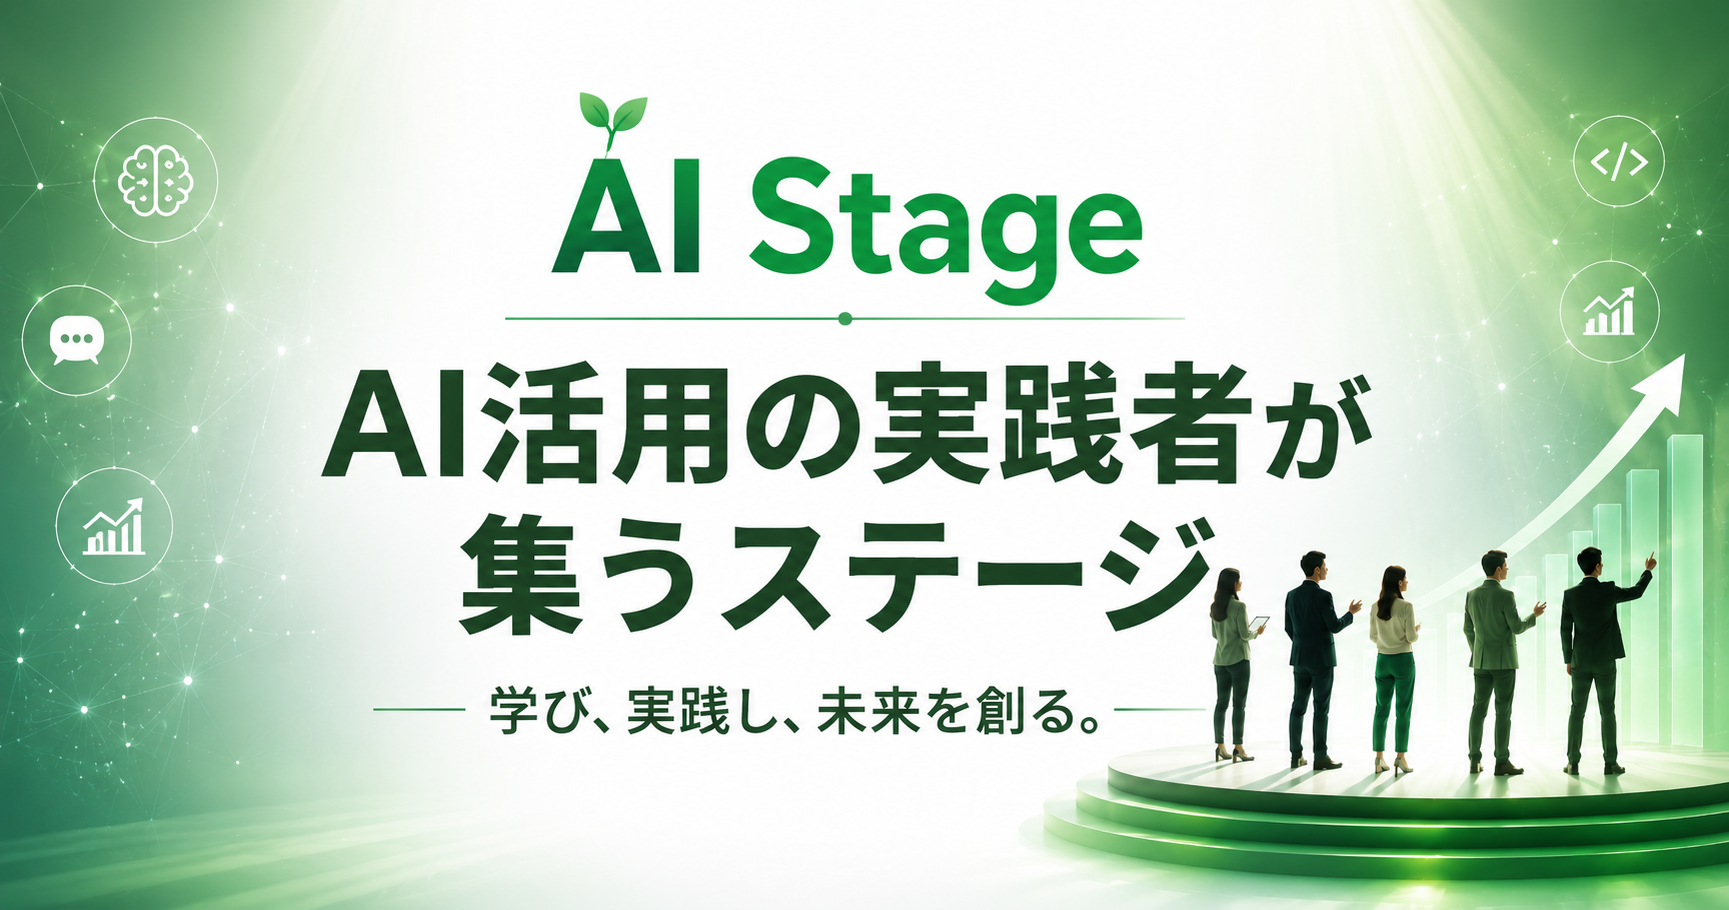
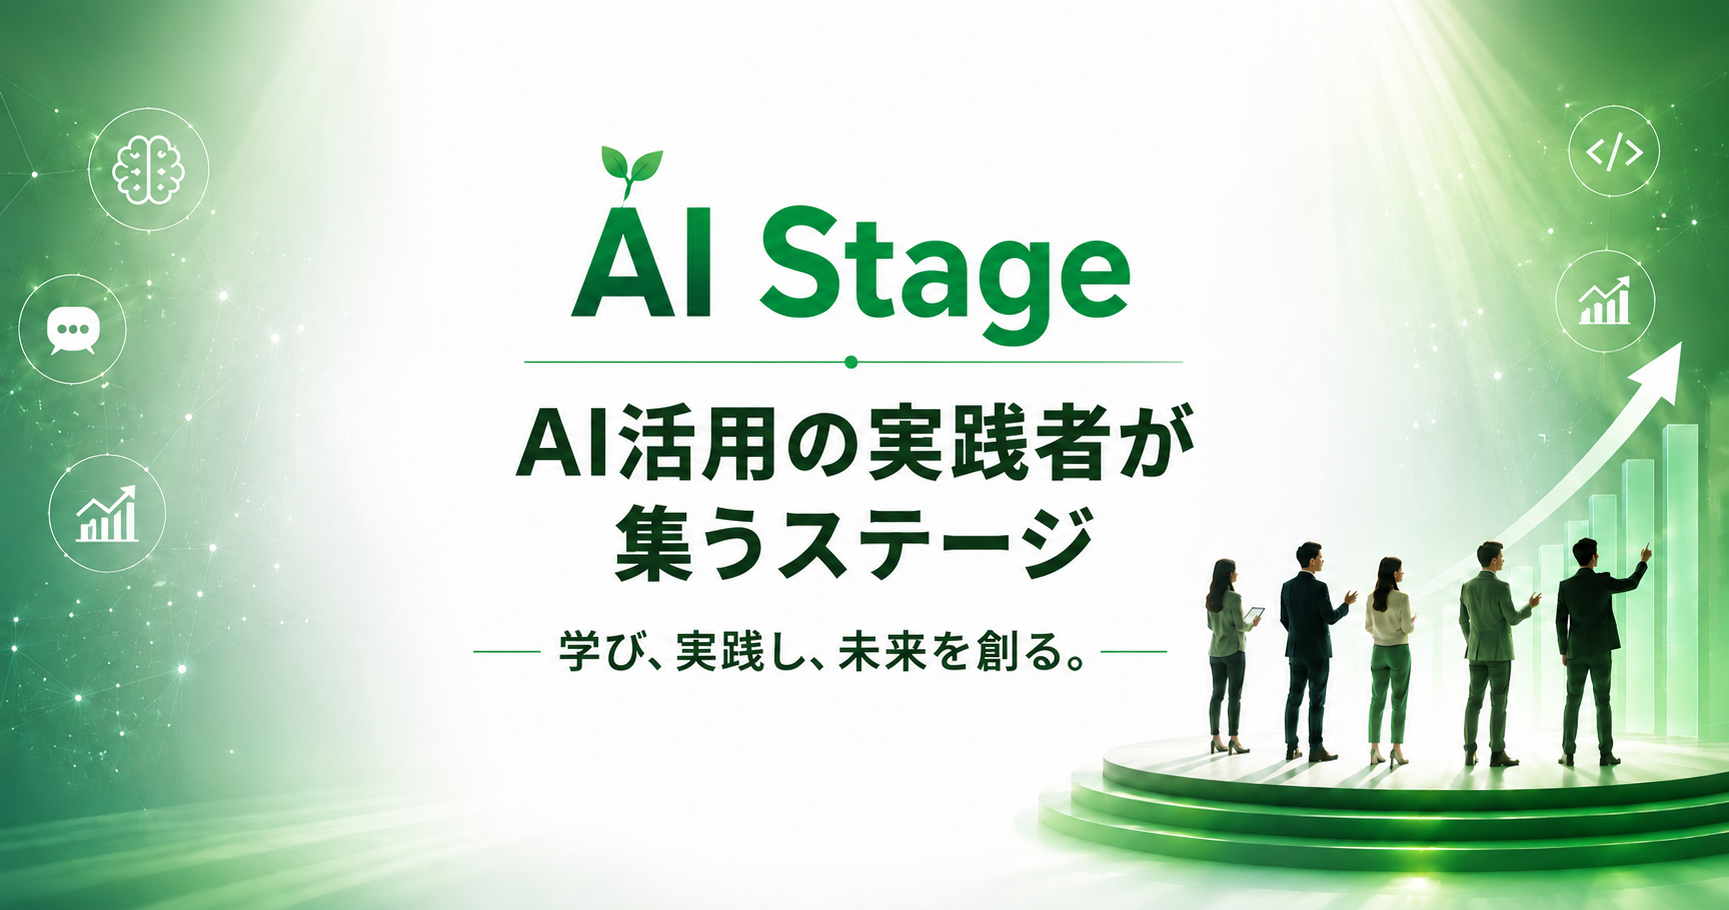
プロフィール更新・WebP変換・フォントサイズ調整
- 守口晋市・川﨑陽子・やなのプロフィールをフォーム回答に更新
- miomuiの登壇日を7月29日（水）20:00〜に確定
- hero-pc/hero-sp をWebP変換（合計3.4MB→240KB）、PNG fallback付き
- hero-pc/hero-sp/ogp の最新画像を反映
- ひっきーのライティング実績URLをクリッカブルリンクに
- 各セクション説明文を15pxに調整（開催実績・about枠・受付中・今後の予定・参加方法）
- メンバー実績テキストを15pxに調整

diff --git a/index.html b/index.html
@@ -222,7 +222,7 @@ nav{
 }
 .about-icon img{width:100%;height:100%;object-fit:cover}
 .about-item h3{font-size:18px;font-weight:700;margin-bottom:.3rem;color:var(--text)}
-.about-item p{font-size:18px;color:var(--text2);line-height:1.6}
+.about-item p{font-size:15px;color:var(--text2);line-height:1.6}
 
 /* ================================================================
    TIMELINE
@@ -250,7 +250,7 @@ nav{
 .timeline-date{font-size:.75rem;color:var(--muted)}
 .timeline-title{font-size:1rem;font-weight:700;margin-bottom:.4rem;line-height:1.4;color:var(--text)}
 .timeline-speaker{font-size:16px;color:var(--accent);margin-bottom:.5rem}
-.timeline-desc{font-size:16px;color:var(--text2);line-height:1.6}
+.timeline-desc{font-size:15px;color:var(--text2);line-height:1.6}
 .timeline-stats{display:flex;flex-wrap:wrap;gap:.5rem;margin-top:.8rem}
 .timeline-peatix-link{display:inline-block;margin-top:.8rem;font-size:16px;font-weight:700;color:#15803d;background:#f0fdf4;border:1.5px solid #22c55e;border-radius:8px;padding:.45em 1.1em;text-decoration:none;transition:background .2s,color .2s;}
 .timeline-peatix-link:hover{background:#22c55e;color:#fff;}
@@ -302,7 +302,7 @@ nav{
   display:flex;align-items:center;gap:.4rem;
   font-size:18px;font-weight:600;color:var(--text);margin-bottom:1rem;
 }
-.current-event-desc{font-size:16px;color:var(--text2);line-height:1.75;margin-bottom:1.4rem}
+.current-event-desc{font-size:15px;color:var(--text2);line-height:1.75;margin-bottom:1.4rem}
 .current-event-highlights{display:flex;flex-direction:column;gap:.5rem;margin-bottom:1.6rem}
 .highlight-item{
   display:flex;align-items:flex-start;gap:.6rem;
@@ -330,7 +330,7 @@ nav{
 }
 .upcoming-name{font-weight:700;font-size:18px;color:var(--text)}
 .upcoming-theme{font-size:18px;color:var(--accent);font-weight:600;margin:.2rem 0}
-.upcoming-desc{font-size:16px;color:var(--text2)}
+.upcoming-desc{font-size:15px;color:var(--text2)}
 
 /* ================================================================
    ABOUT SPECIALTIES
@@ -387,7 +387,7 @@ nav{
 }
 .join-icon{font-size:1.8rem;flex-shrink:0;margin-top:.1rem}
 .join-item h3{font-size:1rem;font-weight:700;margin-bottom:.4rem;color:#111}
-.join-item p{font-size:18px;color:#374151;line-height:1.7}
+.join-item p{font-size:15px;color:#374151;line-height:1.7}
 
 /* ================================================================
    SECTION ALTERNATING BG  黒→白→黒→白...
@@ -450,7 +450,7 @@ nav{
 }
 .achievement-item{
   display:flex;align-items:flex-start;gap:.5rem;
-  font-size:16px;color:#374151;line-height:1.5;
+  font-size:15px;color:#374151;line-height:1.5;
   padding:.3rem 0;border-bottom:1px solid #e5e7eb;
 }
 .achievement-item:last-child{border-bottom:none}
@@ -567,7 +567,9 @@ footer{border-top:1px solid var(--border);padding:2rem 20px;text-align:center;fo
 <section id="hero">
   <div class="hero-image-wrap">
     <picture>
+      <source media="(min-width:640px)" srcset="hero-pc.webp" type="image/webp" />
       <source media="(min-width:640px)" srcset="hero-pc.png" />
+      <source srcset="hero-sp.webp" type="image/webp" />
       <img src="hero-sp.png" alt="AI Stage - AI活用の実践者が集うコミュニティ" class="hero-img" />
     </picture>
   </div>
@@ -770,11 +772,11 @@ const PAST_EVENTS = [
     peatixUrl: "https://peatix.com/event/5038871",
   },
   {
-    date: "2026.07",
+    date: "2026.07.29",
     badge: { text: "予定", type: "yellow" },
     title: "その仕事、本当に社長がやる必要ありますか？〜1日10分から始める、AIに任せられる仕事の見つけ方〜",
     speaker: "miomiu",
-    desc: "元PC講師として業務整理を長年手がけてきたmiomiuが、「AIに興味はあるが自社の何に使えばいいかわからない」中小企業の社長向けに、業務棚卸しからAI活用を考える実践的な視点を解説予定。",
+    desc: "元PC講師として業務整理を軸に活動。難しいツールの話より「業務から一緒に考える」スタイルで、AIが気になるけど何に使えばいいかわからない中小企業の社長さんへ向けて登壇予定。",
     stats: [],
   },
 ];
@@ -787,7 +789,7 @@ const UPCOMING_SPEAKERS = [
     name: "miomiu",
     theme: "その仕事、本当に社長がやる必要ありますか？〜1日10分から始める、AIに任せられる仕事の見つけ方〜",
     desc: "元PC講師として業務整理を軸に活動。難しいツールの話より「業務から一緒に考える」スタイルで、AIが気になるけど何に使えばいいかわからない中小企業の社長さんへ向けて登壇準備中。",
-    date: "2026年7月（調整中）",
+    date: "2026年7月29日（水）20:00〜",
   },
   {
     name: "守口 晋市",
@@ -832,7 +834,7 @@ const MEMBERS = [
     bio: "IT担当者がいない中小企業の「社外AI担当」として、業務整理からAI活用の定着までを支援しています。ITサポート・PC講師の経験を活かし、ツール導入ありきではなく、まず業務を整理してから。事務作業に追われる時間を減らし、経営者が本業に集中できる環境づくりを伴走します。「AIに興味はあるけれど、何から始めればいいか分からない」そんな方の最初の一歩を一緒に整理します。",
     specialties: ["中小企業支援", "業務整理", "社外AI担当", "AI導入支援", "事務効率化", "ITサポート", "PC講師"],
     achievements: [
-      "2026年7月 Peatix登壇予定「その仕事、本当に社長がやる必要ありますか？」",
+      "2026年7月29日（水）20:00〜 Peatix登壇「その仕事、本当に社長がやる必要ありますか？」",
       "ソフトバンク主催ハッカソン 第3位入賞",
       "ITサポート・PC講師として、初心者向けのPC操作・業務効率化をサポート",
       "IT担当者がいない中小企業向けに、業務整理から始めるAI活用支援を実施",
@@ -843,18 +845,23 @@ const MEMBERS = [
   },
   /* ── 3: 次々回登壇者 ── */
   {
-    name: "守口 晋市",
+    name: "守口晋市",
     handle: "守口さん",
     photo: "",
-    role: "Peatixページ作成・8月登壇予定",
+    role: "8月登壇予定",
     roleBadge: { text: "登壇予定", type: "yellow" },
-    bio: "25年超・多業種のシステム構築経験を活かした「AI時短セミナー」を企画中。Peatixイベントページ作成を担当し、チームのインフラを支える。",
-    specialties: ["業務効率化", "DX推進", "システム構築"],
+    bio: "中小企業の経営者・スタッフに向けて、現場で使えるAI時短術を伝授する25年WEBディレクターの実践派。「非エンジニア社員がアプリを作れる」まで、ただいま伴走中。",
+    specialties: ["中小企業伴走支援", "業務時短力", "AI社員", "Claude Code", "Codex"],
     achievements: [
-      "第1回PeatixイベントページのURL作成・設定",
-      "「9割削減——その差は時短力だった」ウェビナーを企画中（8月）",
+      "中小企業向けAIリテラシー講演・AI研修の実施",
+      "セキュリティを踏まえたAIリテラシー支援",
+      "システム開発・UIUXデザインの知見を活かしたAI導入支援",
+      "顧問契約にて社員のアプリ開発を伴走支援中",
+      "25年以上のIT業界経験・現場目線の実践支援",
     ],
-    links: [],
+    links: [
+      { label: "公式サイト", url: "https://accord-m.co.jp/jitanryoku/", primary: true },
+    ],
   },
   /* ── 4: 過去登壇者（新しい順）── */
   {
@@ -875,16 +882,15 @@ const MEMBERS = [
   },
   /* ── 5以降: 五十音順 ── */
   {
-    name: "川崎 陽子",
+    name: "川﨑 陽子",
     handle: "かわさきようこ",
     photo: "",
     role: "発起人・集客担当",
     roleBadge: { text: "運営", type: "accent" },
-    bio: "千葉県のゴルフ場経営者（スタッフ80名超）。社内AI推進を進めながら、千葉県経営品質協議会でのAI研修推進委員としても活動中。",
-    specialties: ["ゴルフ業界AI推進", "集客・広告", "中小企業AI研修"],
+    bio: "2020年に日本ディープラーニング協会のG検定合格。2025年GUGAの生成物パスポート合格。千葉県のゴルフ場を経営。AI活用による業務効率化、人手不足を解消すべく、ゴルフ界や中小企業団体のAI推進を担当。",
+    specialties: ["中小企業経営者目線", "AI導入", "社内推進", "NotebookLM", "Google Workspace"],
     achievements: [
-      "ゴルフ業界イベント「ゴルフ×AI」登壇",
-      "千葉県経営品質協議会 AI研修推進委員",
+      "アジア最大級のゴルフフェア2026で「ゴルフ×AI、ゴルフ界でのAI活用について」登壇",
     ],
     links: [],
   },
@@ -898,6 +904,7 @@ const MEMBERS = [
     specialties: ["AI活用業務効率化", "SEOライティング", "企業AI活用支援"],
     achievements: [
       "当コミュニティでのファシリテーター",
+      "ライティング実績：<a href=\"https://renever-korean.com/korean-finish-end-difference/\" target=\"_blank\" rel=\"noopener\" style=\"color:var(--accent);word-break:break-all;\">renever-korean.com</a>",
     ],
     links: [
       { label: "X（Twitter）", url: "https://x.com/hickey_9999", primary: true },
@@ -923,11 +930,12 @@ const MEMBERS = [
     photo: "",
     role: "コミュニティ発起人",
     roleBadge: { text: "運営", type: "accent" },
-    bio: "超地方都市の小規模寺院の准坊守。AIを活用した寺院の自走・存続をゴールに活動中。",
-    specialties: ["コミュニティ設計", "人事・組織", "AI×寺院運営"],
+    bio: "北海道在住。現役の人事担当。小規模事業者・中小企業向けに、AIを活用した業務改善や情報整理、Webサイト制作を行っています。寺院向けAI活用支援やポータルサイトの企画・制作にも携わっています。",
+    specialties: ["AI導入支援", "業務効率化", "個人事業主・小規模事業者支援"],
     achievements: [
-      "第1回・第2回ウェビナーでチャットサポート担当",
-      "ポータルサイト（本サイト）を提案・設計",
+      "寺院向けポータルサイトを企画・制作",
+      "AIを活用した寺院運営支援",
+      "ウェビナーのチャットサポート担当",
     ],
     links: [],
   },